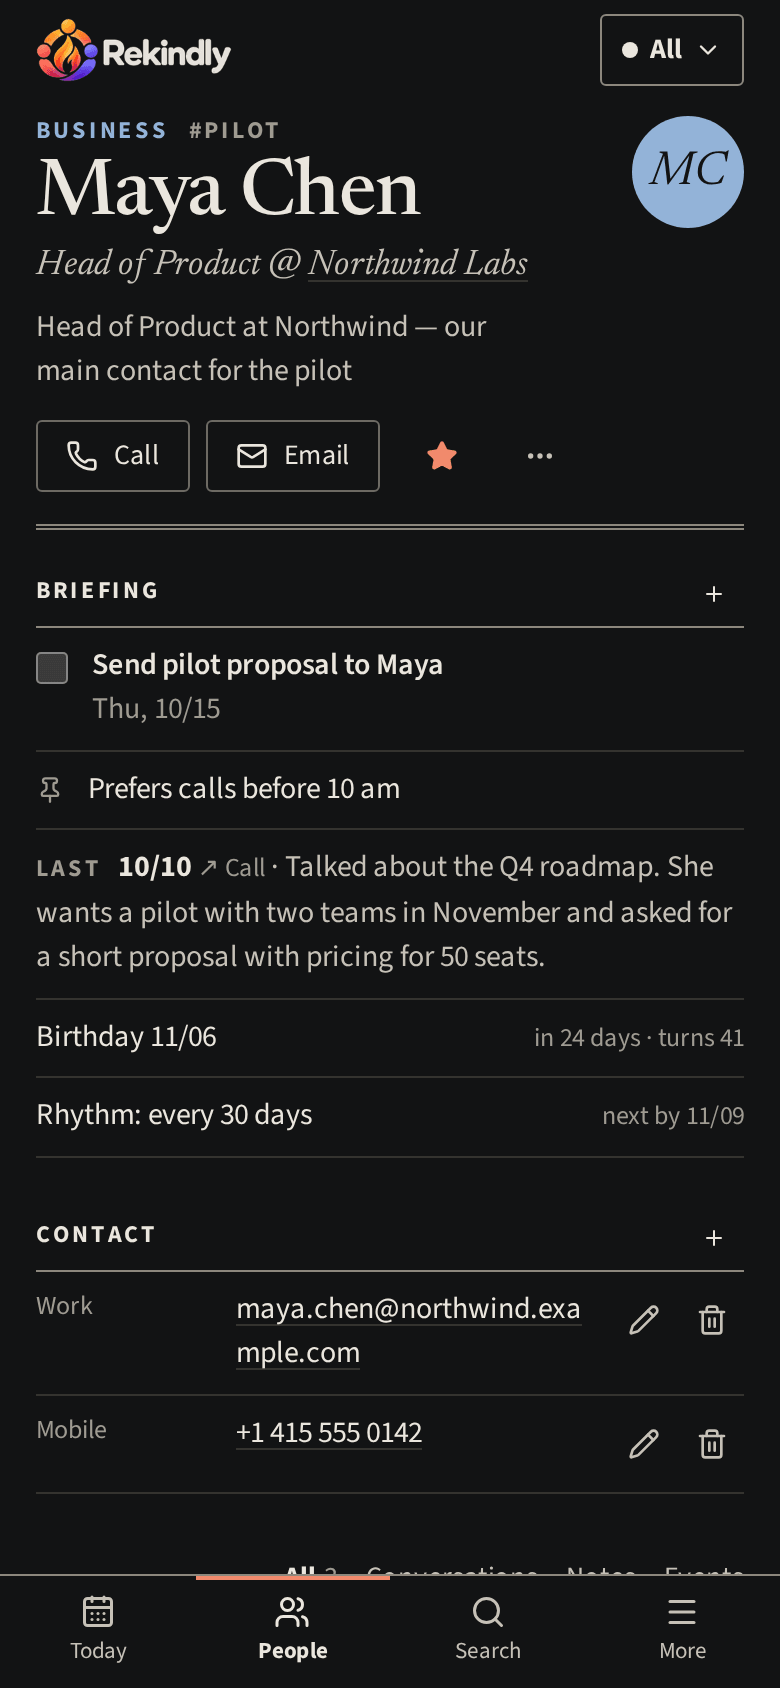
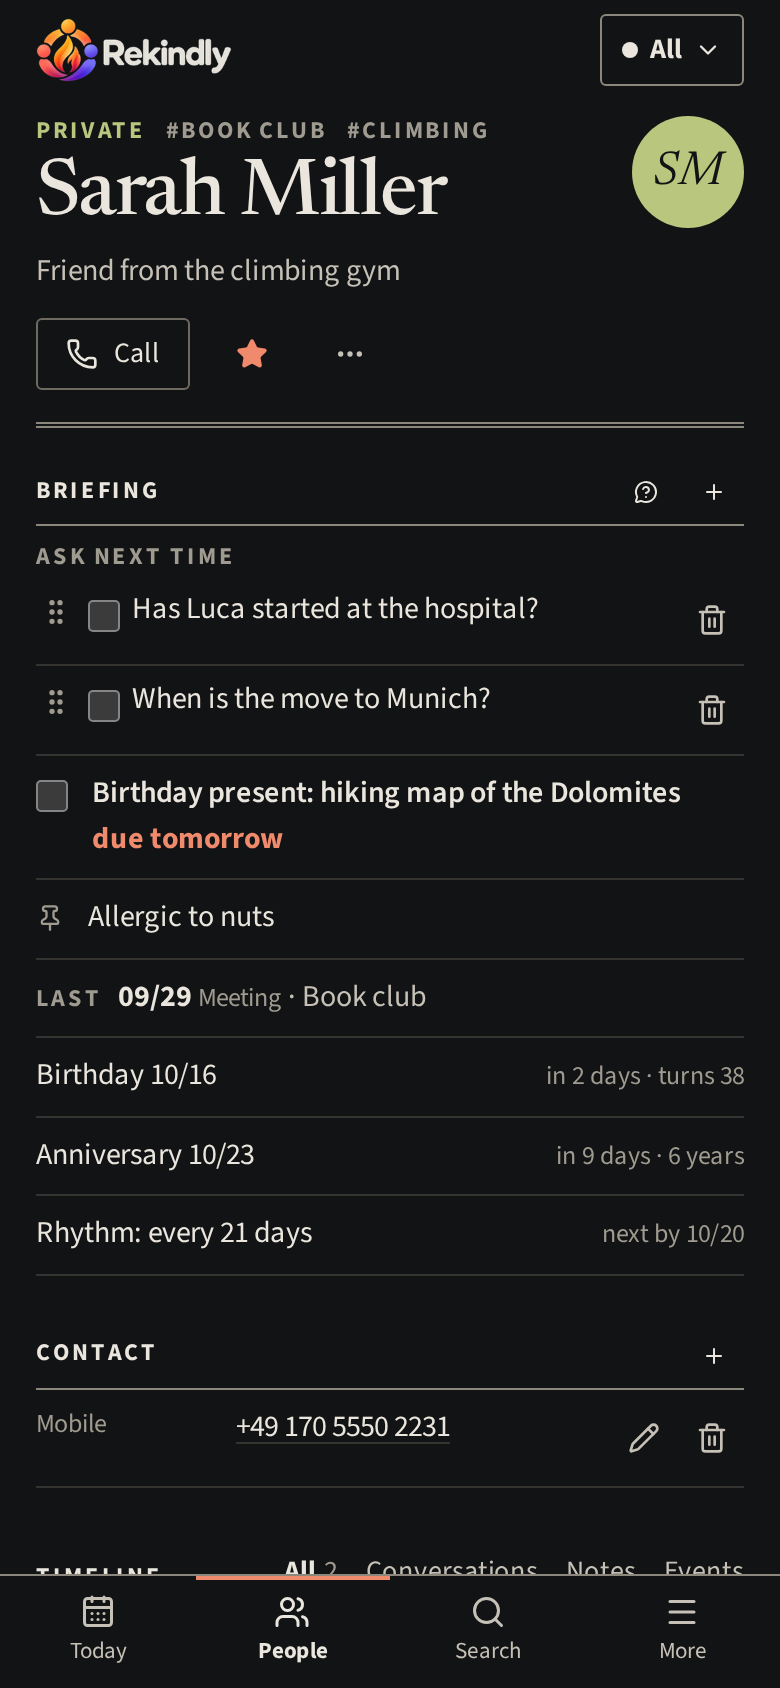
chore(release): v0.3.0 (#13)
Version 0.3.0, changelog with upgrade notes, new README screenshots
(questions for next time in the briefing, other days on Today).

diff --git a/CHANGELOG.md b/CHANGELOG.md
@@ -6,6 +6,8 @@ breaking changes (always with a migration path for your data).
 
 ## [Unreleased]
 
+## [0.3.0] — 2026-10-14
+
 ### Added
 
 - **Ask next time:** collect questions for the next conversation with someone (“How
@@ -35,11 +37,16 @@ breaking changes (always with a migration path for your data).
   contacts_ adds the rest without showing any birthday twice. Existing subscriptions
   keep what they had (all or none). API: `birthdays` replaces `includeBirthdays`, which
   is still accepted and returned.
-
 - Export format version 3 (adds `questions` and `personDates`); files of version 1 and
   2 still import.
 - Dates that earlier versions kept from the iPhone as unknown vCard fields become
   recurring days on start.
+
+### Upgrading from 0.2
+
+Three database migrations run automatically on start. Make a backup first
+(`docker exec <container> node dist/cli.js backup`). 0.2 cannot import exports or
+backups made by 0.3 (format version 3); 0.3 imports all older files.
 
 ## [0.2.0] — 2026-10-13
 
@@ -99,6 +106,7 @@ First public release:
 - API tokens, OpenAPI reference at `/api/docs`, MCP server for Claude
 - One Docker image (amd64, arm64), SQLite, no telemetry
 
-[Unreleased]: https://github.com/dddanny79/rekindly/compare/v0.2.0...HEAD
+[Unreleased]: https://github.com/dddanny79/rekindly/compare/v0.3.0...HEAD
+[0.3.0]: https://github.com/dddanny79/rekindly/compare/v0.2.0...v0.3.0
 [0.2.0]: https://github.com/dddanny79/rekindly/compare/v0.1.0...v0.2.0
 [0.1.0]: https://github.com/dddanny79/rekindly/releases/tag/v0.1.0

diff --git a/docs/deployment.md b/docs/deployment.md
@@ -71,7 +71,7 @@ Two ways; both use the same settings from step 3 on.
   Directory `/`, Dockerfile Location `/Dockerfile`. With Auto Deploy, Coolify rebuilds
   on every push to the branch.
 - **From the image:** `+ New` → _Docker Image_, `ghcr.io/dddanny79/rekindly:latest`
-  (latest release), or a version such as `:0.2` to stay on one minor version.
+  (latest release), or a version such as `:0.3` to stay on one minor version.
 
 Then:
 
